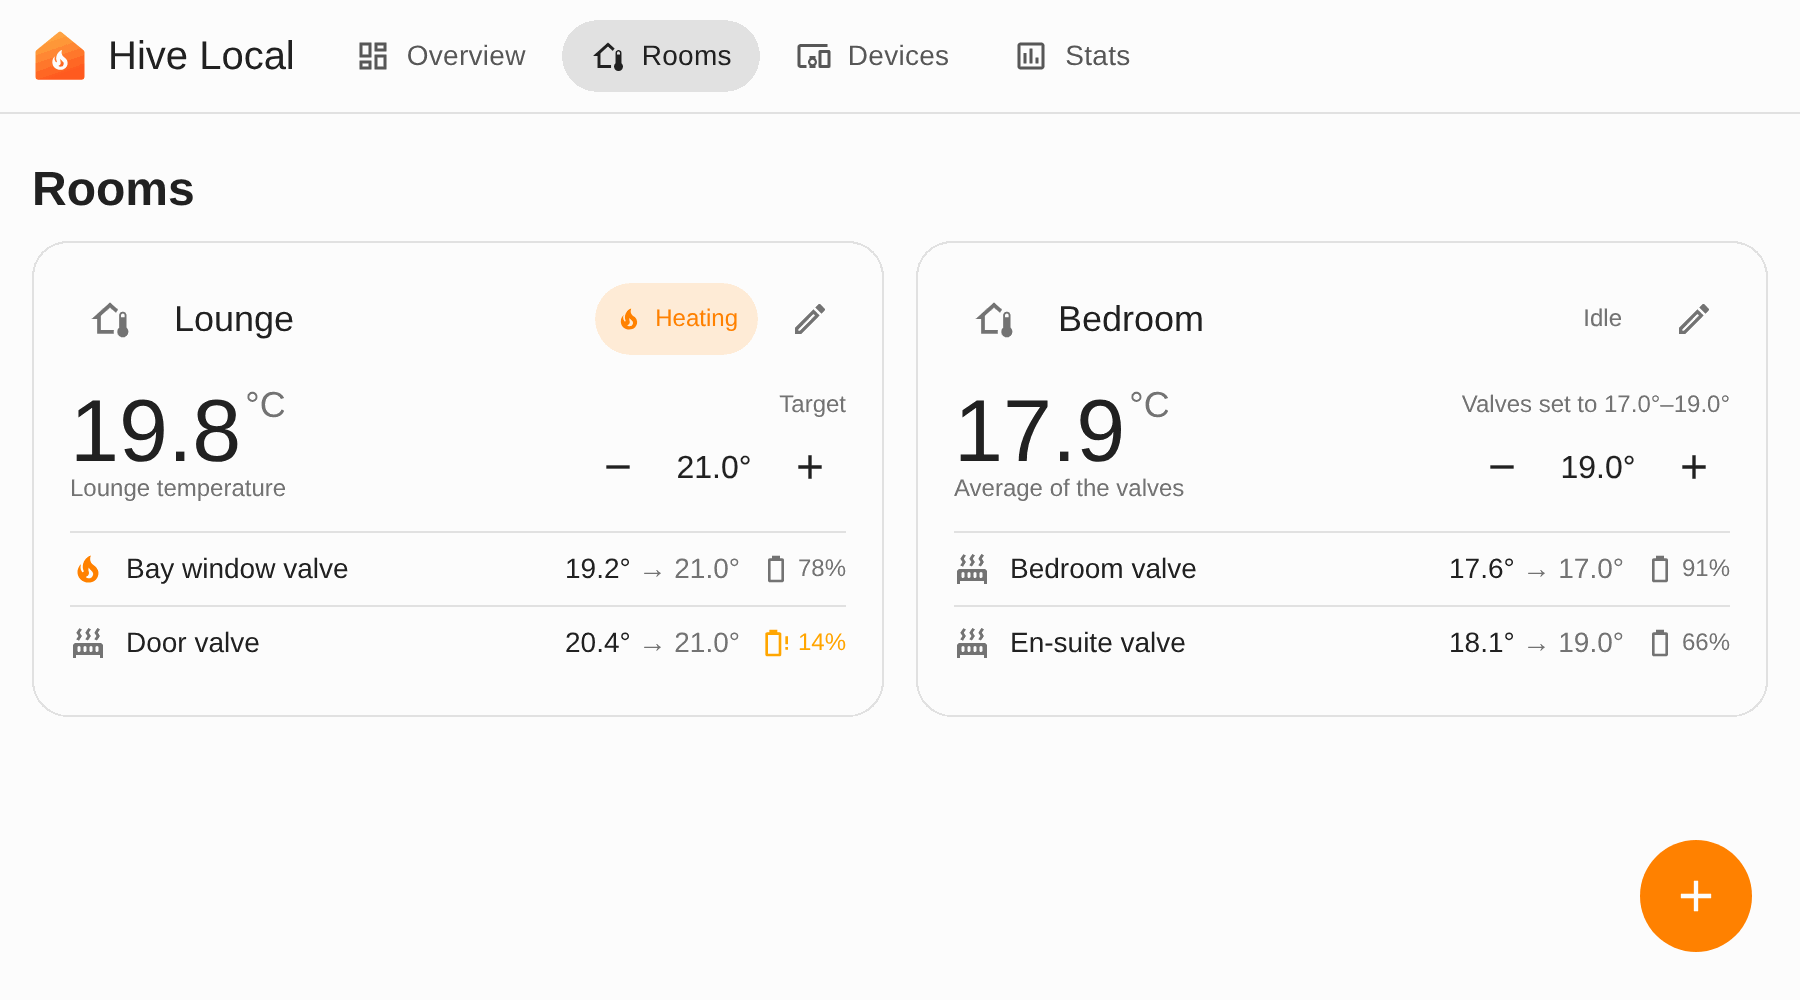
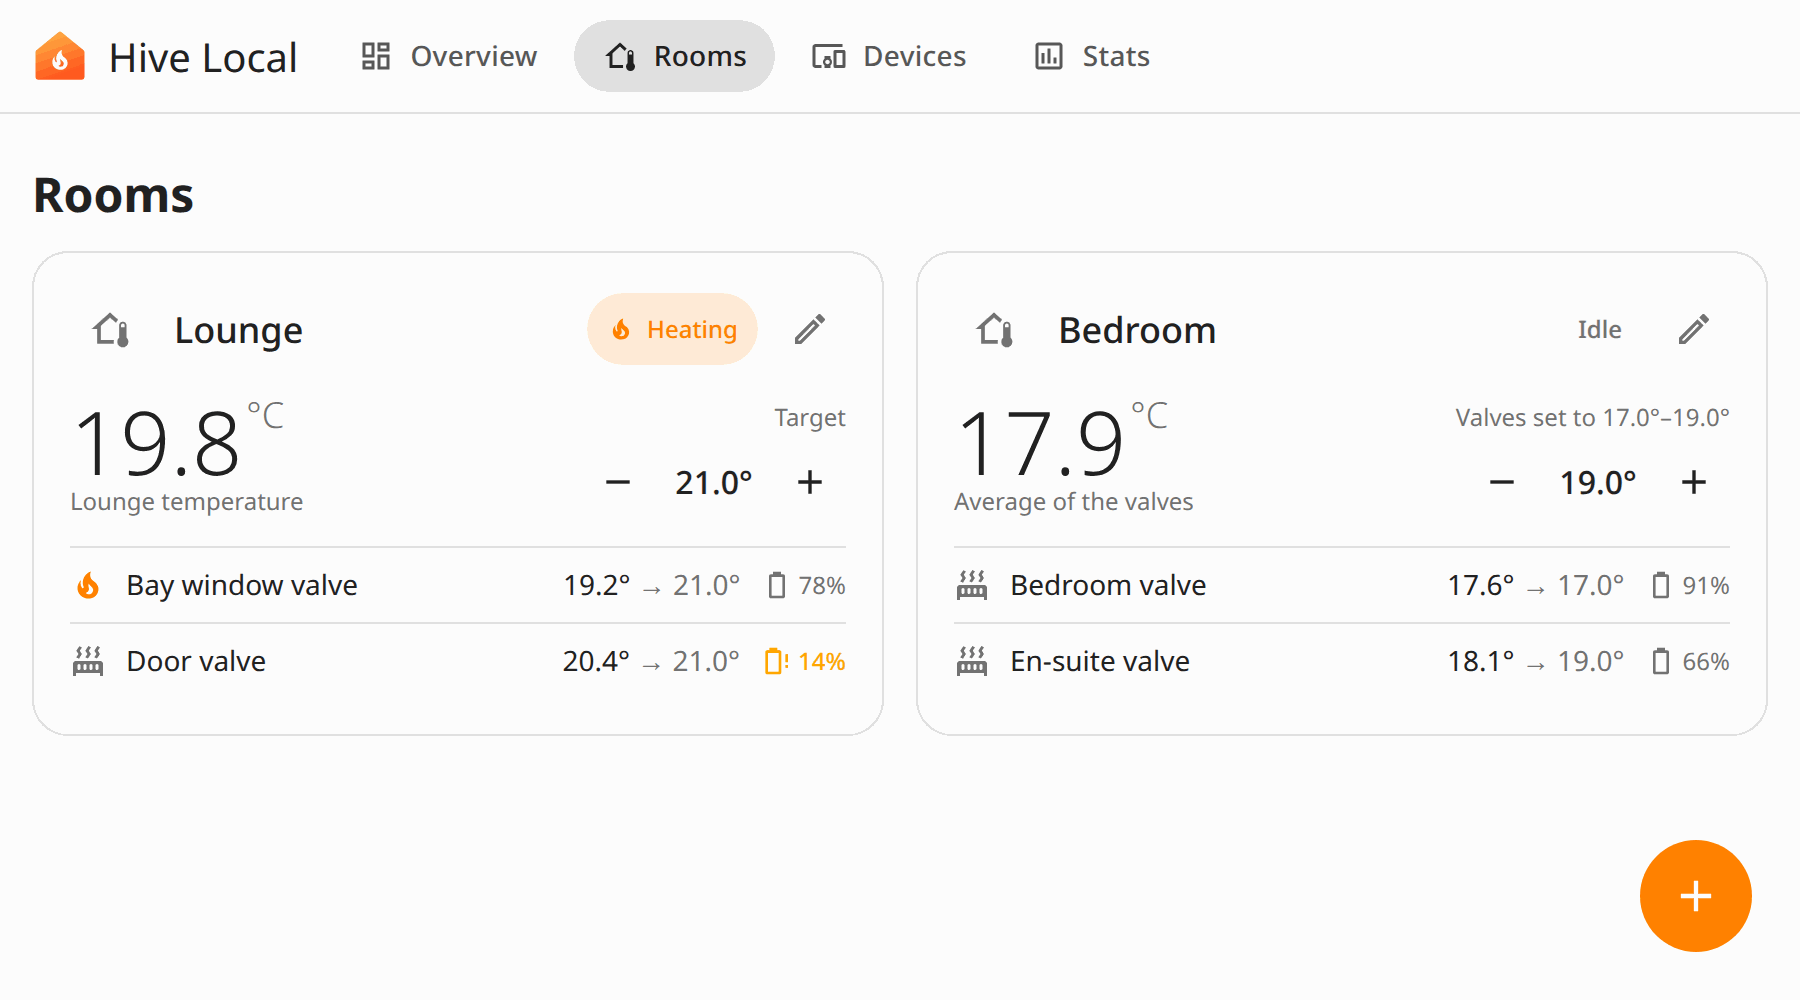
docs(screenshots): a phone with real proportions, and roboto loaded
The hero's phone was a 400x820 shot, wider and shorter than a phone,
with the rounded corners cutting into the header. It's now a 390x844
screen with a status bar and home indicator, a little larger. The
harness loads Roboto, so the shots don't depend on it being installed.

diff --git a/docs/screenshots/harness/compose.html b/docs/screenshots/harness/compose.html
@@ -28,9 +28,17 @@
   .bar span { flex: 1; text-align: center; margin-right: 50px; font-size: 12.5px; color: #8a8a8a; }
   .window img { display: block; }
 
-  /* A phone: dark bezel around the narrow screenshot. */
-  .phone { border-radius: 46px; padding: 12px; background: #111; box-shadow: 0 50px 90px -25px rgba(90, 30, 0, .5), 0 0 0 2px #2a2a2a inset; }
-  .phone img { display: block; border-radius: 34px; }
+  /* A phone: dark bezel, then a 390×844 screen (status bar, the narrow screenshot, home indicator)
+     drawn at full CSS size and scaled down as a whole, so it keeps a real phone's proportions. */
+  .phone { position: absolute; border-radius: 58px; padding: 13px; background: #111; transform-origin: top left;
+    box-shadow: 0 60px 110px -25px rgba(90, 30, 0, .55), 0 0 0 2px #2a2a2a inset; }
+  .screen { width: 390px; height: 844px; border-radius: 46px; overflow: hidden; background: #fdfdfd; position: relative; }
+  .screen img { display: block; width: 390px; }
+  .status { height: 50px; display: flex; align-items: center; justify-content: space-between; padding: 6px 30px 0 40px;
+    font: 600 16px/1 -apple-system, "SF Pro Text", Figtree, sans-serif; color: #111; }
+  .status svg { display: block; }
+  .island { position: absolute; top: 11px; left: 50%; width: 120px; height: 34px; margin-left: -60px; border-radius: 20px; background: #000; }
+  .home { position: absolute; left: 50%; bottom: 8px; width: 134px; height: 5px; margin-left: -67px; border-radius: 3px; background: #111; }
 
   .tag { font-size: 30px; line-height: 1.35; color: #3b2a20; font-weight: 500; margin: 0; }
   .sub { font-size: 20px; color: #7a5a48; margin: 14px 0 0; }
@@ -47,6 +55,15 @@
   const win = (src, w, title = "Home Assistant · Hive Local") =>
     `<div class="window" style="width:${w}px"><div class="bar"><i></i><i></i><i></i><span>${title}</span></div><img src="${src}" width="${w}"></div>`;
 
+  const phone = (src, left, top, scale) => `
+    <div class="phone" style="left:${left}px;top:${top}px;transform:scale(${scale})"><div class="screen">
+      <div class="status"><span>9:41</span><span class="island"></span>
+        <svg width="72" height="14" viewBox="0 0 72 14" fill="#111"><rect x="0" y="9" width="3.5" height="5" rx="1"/><rect x="5.5" y="6" width="3.5" height="8" rx="1"/><rect x="11" y="3" width="3.5" height="11" rx="1"/><rect x="16.5" y="0" width="3.5" height="14" rx="1"/>
+          <path d="M35 13.5l-2.6-2.6a3.7 3.7 0 0 1 5.2 0zM30.5 9a6.4 6.4 0 0 1 9 0l1.5-1.5a8.5 8.5 0 0 0-12 0zM27.5 6a10.6 10.6 0 0 1 15 0L44 4.5a12.7 12.7 0 0 0-18 0z"/>
+          <rect x="47.5" y="1" width="21" height="12" rx="3.5" fill="none" stroke="#111" stroke-opacity=".4"/><rect x="49.5" y="3" width="15" height="8" rx="2"/><rect x="69.5" y="5" width="1.8" height="4" rx=".9" fill-opacity=".4"/></svg></div>
+      <img src="${src}"><div class="home"></div>
+    </div></div>`;
+
   if (kind === "frame") {
     const w = +q.get("w") || 900, pad = 56;
     document.body.innerHTML = `<div class="stage ${theme}" style="display:inline-block;padding:${pad}px ${pad + 8}px ${pad + 16}px">${win(q.get("img"), w)}</div>`;
@@ -54,7 +71,7 @@
     document.body.innerHTML = `
       <div class="stage warm" style="width:1400px;height:860px">
         <div style="position:absolute;left:64px;top:58px">${win("overview.png", 980)}</div>
-        <div class="phone" style="position:absolute;right:70px;top:150px;width:324px"><img src="phone.png" width="300"></div>
+        ${phone("phone.png", 1012, 52, 0.86)}
       </div>`;
   } else if (kind === "social") {
     document.body.innerHTML = `

diff --git a/docs/screenshots/harness/harness.html b/docs/screenshots/harness/harness.html
@@ -2,6 +2,8 @@
 <html>
 <head>
 <meta charset="utf-8">
+<!-- Roboto, Home Assistant's font, so the shots look the same whether or not it's installed. -->
+<link rel="stylesheet" href="https://fonts.googleapis.com/css2?family=Roboto:wght@400;500;700&display=swap">
 <style>
   /* Home Assistant's default light theme (the variables the panel reads). */
   :root {
